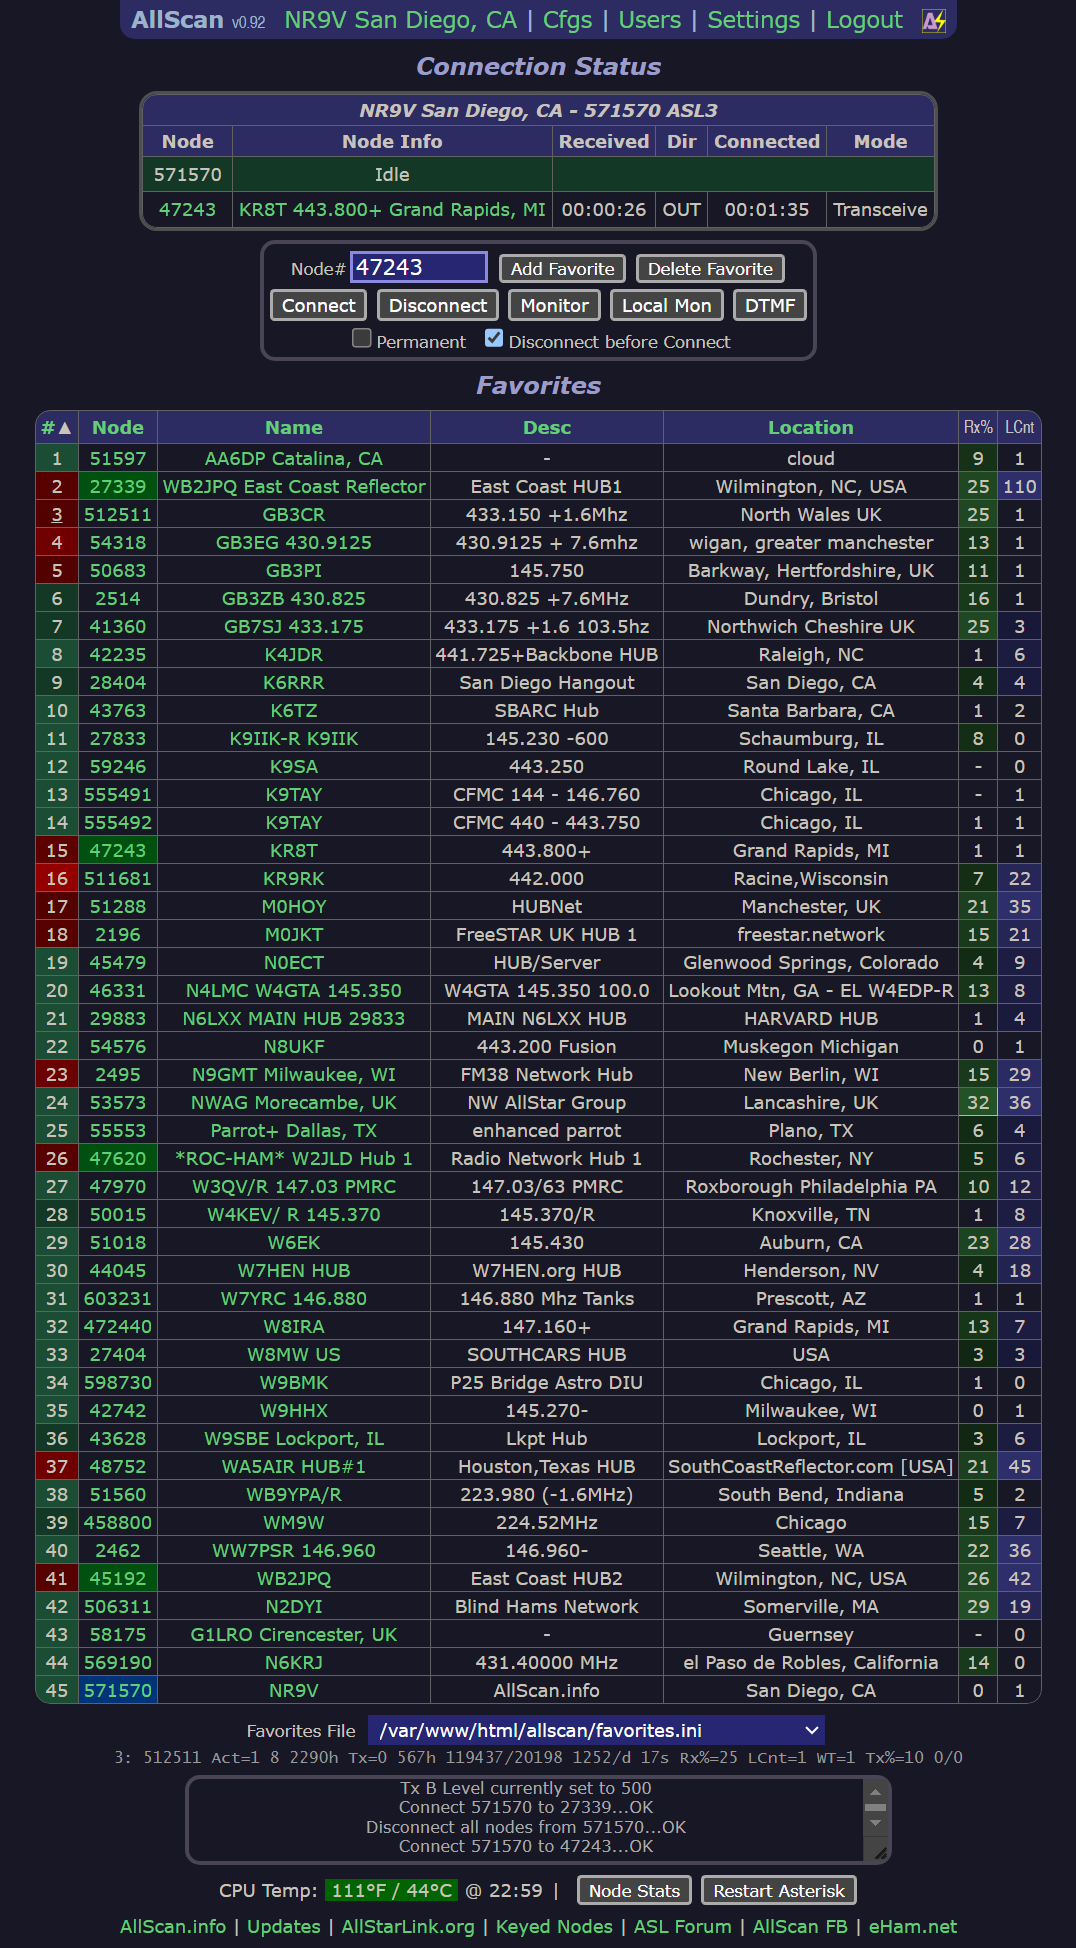
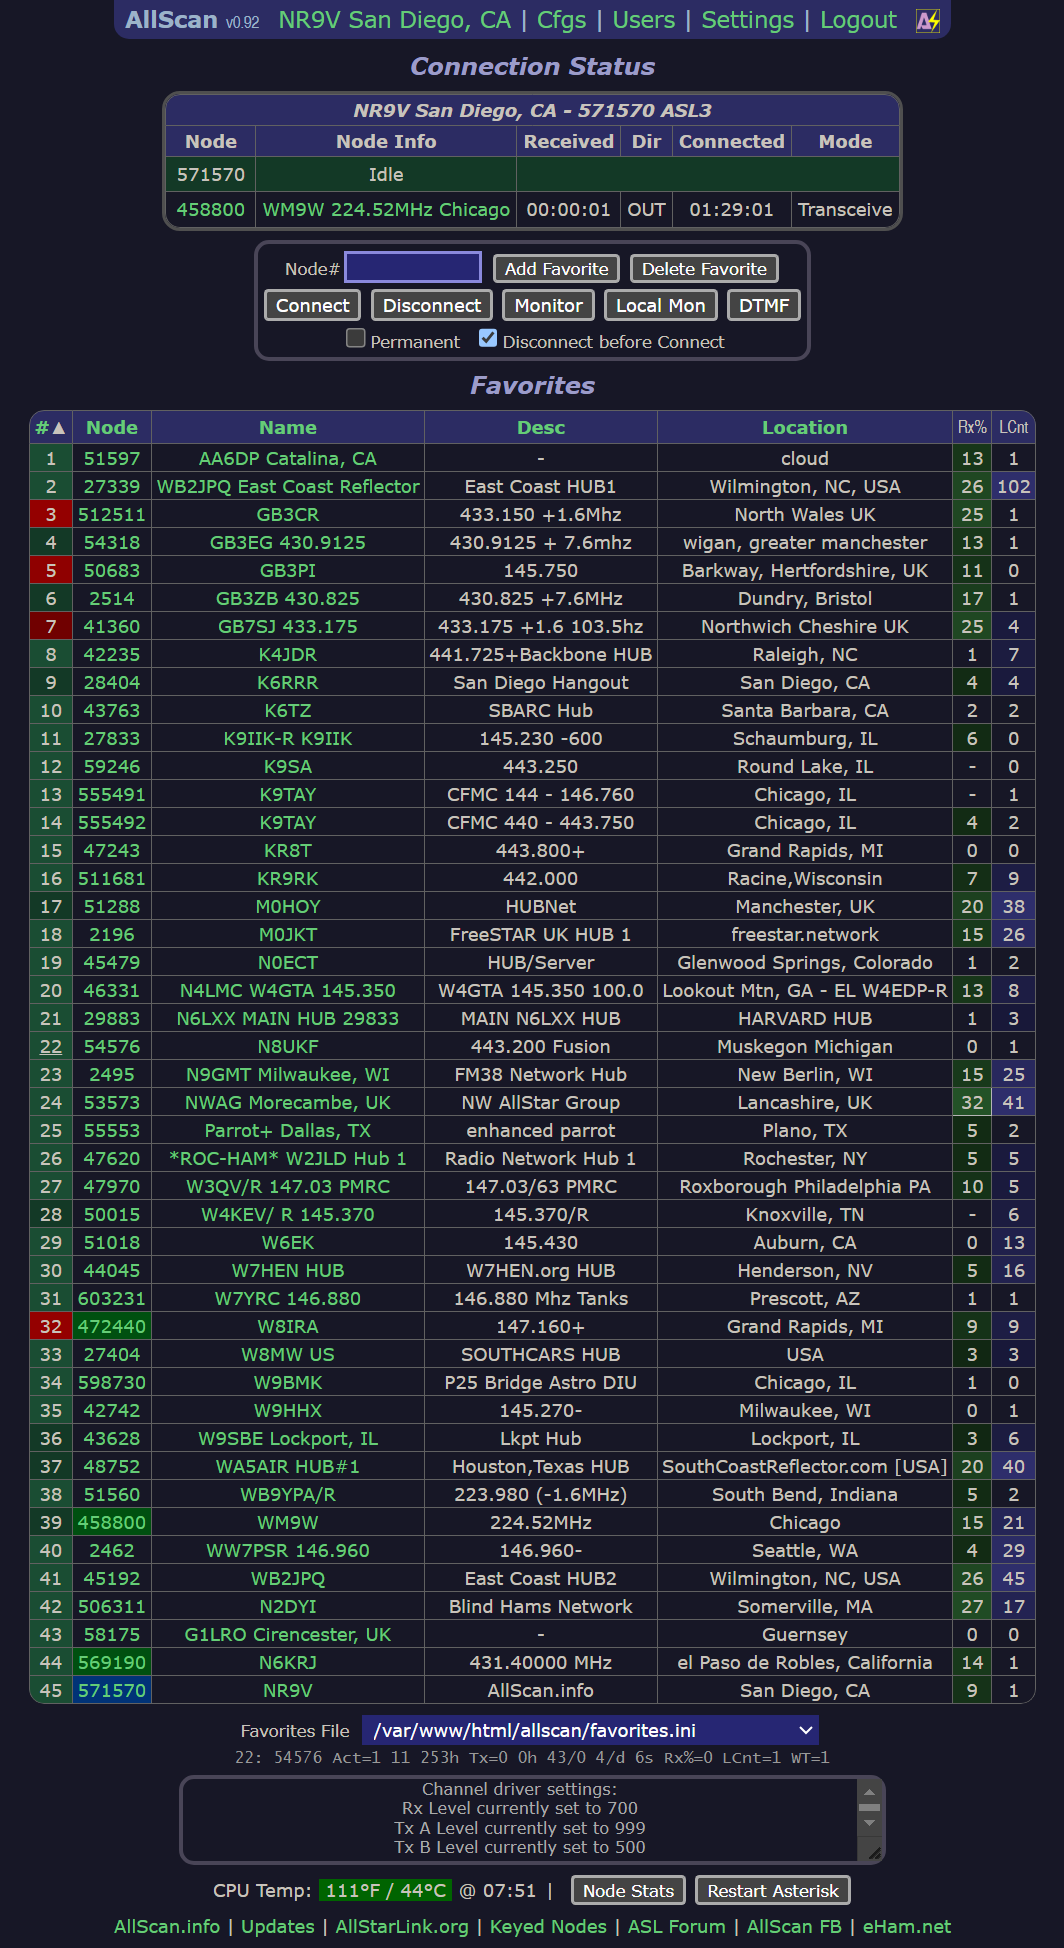
Fix bug where for non-logged-in users JavaScript functions would not work

diff --git a/include/viewUtils.php b/include/viewUtils.php
@@ -24,7 +24,8 @@ function showConnStatusTable() {
 
 function showNodeCtrlForm() {
 	global $node, $remNode, $favsFile, $asdir, $gCfg;
-	echo '<form id="nodeForm" method="post" action="/' . $asdir . '/"><fieldset>
+	if(modifyOk())
+		echo '<form id="nodeForm" method="post" action="/' . $asdir . '/"><fieldset>
 <input type=hidden id="localnode" name="localnode" value="' . $node . '">
 <input type=hidden id="conncnt" name="conncnt" value="0">
 <input type=hidden id="favsfile" name="favsfile" value="' . $favsFile .'">
@@ -44,6 +45,8 @@ function showNodeCtrlForm() {
 	for="autodisc">Disconnect before Connect</label>
 </fieldset></form>
 ';
+	else
+		echo '<input type=hidden id="localnode" name="localnode" value="' . $node . '">' . NL;
 }
 
 function showSetNodeInfoForm() {

diff --git a/index.php b/index.php
@@ -82,9 +82,7 @@ if(!isset($parms))
 $remNode = (isset($parms['node']) && validDbID($parms['node']) && strlen($parms['node']) < 9) ? $parms['node'] : '';
 
 showConnStatusTable();
-
-if(modifyOk())
-	showNodeCtrlForm();
+showNodeCtrlForm();
 
 h2('Favorites');
 // Read in favorites.ini

diff --git a/include/common.php b/include/common.php
@@ -1,7 +1,7 @@
 <?php
 // AllScan main includes & common functions
 // Author: David Gleason - AllScan.info
-$AllScanVersion = "v0.92";
+$AllScanVersion = "v0.93";
 require_once('Html.php');
 require_once('logUtils.php');
 require_once('timeUtils.php');

diff --git a/README.md b/README.md
@@ -3,13 +3,13 @@ AllStar Favorites Management &amp; Scanning Web App
 
 See [screenshot.png](https://github.com/davidgsd/AllScan/blob/main/screenshot.png) for an example of the AllScan GUI. AllScan is a free and open-source web app that provides Favorites Management features, AllStarLink Stats integration, and connection monitoring and control functions.
 * Shows your favorites in a Dashboard summary table with Keyed status, Connected Node count and other statistics.
-* Continually scans the status of each favorite using ASL's Stats API and shows which favorites are active and have recently been active.
+* Continually scans the status of each favorite using ASL's Statistics API and shows which favorites are active and have recently been active.
 * Allows favorites to be connected with a single click (optionally automatically disconnecting any currently connected nodes first).
 * Allows the Favorites Table to be sorted by Node#, Name, Description, Location, etc.
 * Favorites can be added/deleted simply by entering the node# and clicking a button.
 * Favorites files/groups can be easily created, copied, backed up, uploaded, downloaded and switched between
 
-These features finally give AllStar nodes similar memory management and scan capabilities that analog radios have had for decades. AllScan is mobile-friendly and optimized for ease of use on both small and large screens. AllScan follows the latest web development standards, with PHP, JavaScript, HTML, and CSS cleanly partitioned, runs on both ASL and HamVOIP, and is simple to install, configure, and update.
+These features give AllStar nodes similar memory management and scan capabilities that analog radios have had for decades. AllScan is mobile-friendly and optimized for ease of use on both small and large screens. AllScan follows the latest web development standards, with PHP, JavaScript, SQL, HTML, and CSS cleanly partitioned, runs on both ASL and HamVOIP, and is simple to install, configure, and update.
 
 Prior to installing AllScan it is recommended that you have a working install of Supermon or Allmon. AllScan can automatically read their config files. Currently AllScan supports favorites.ini entries that refer to connecting to nodes eg. 'cmd[] = "rpt cmd %node% ilink 3 [node#]"' but may also support other types of commands in the future.
 
@@ -50,7 +50,7 @@ The AllScan Install/Update script automatically checks system configuration deta
 Log into your node by SSH and run the following commands:
 
 	sudo apt update; sudo apt install php php-sqlite3 php-curl unzip avahi-daemon asl3-tts -y
-	cd ~; rm AllScanInstallUpdate.php 2> /dev/null
+	cd ~; rm AllScanInstallUpdate.php 2>/dev/null
 	wget 'https://raw.githubusercontent.com/davidgsd/AllScan/main/AllScanInstallUpdate.php'
 	chmod 755 AllScanInstallUpdate.php
 	sudo ./AllScanInstallUpdate.php
@@ -70,27 +70,27 @@ NOTES:
 2. Then restart the web server or restart the node
 
 # AllScan Nodes, Accessories and How-To-Guides
-If you do not yet have a node or might like to upgrade your node, see [AllScan.info](https://allscan.info/) for How-To Guides, Nodes, USB Interfaces, Accessories and more.
+If you do not yet have a node or might like to upgrade your node, see [AllScan.info](https://allscan.info/) for How-To Guides, Nodes, USB Radio Interfaces, Radio modules, Radio-less interfaces, Accessories and more.
 
 AllScan nodes, node modules, and USB interfaces provide extensive features and outstanding audio quality - see the [Products Page](https://allscan.info/products/) for details.
 
 # Configuration Files and Parameters
 Most nodes already have a number of Cfg files and to simplify the install process AllScan will try to use these rather than require redundant files/data to be created/entered. These files are as follows:
-1. **astdb.txt**: The ASL database file with the list of all nodes provisioned on the AllStarLink network. This file should already exist in ../supermon/astdb.txt or /var/log/asterisk/astdb.txt. If the file is not found it will be automatically downloaded into the allscan directory. If you have a properly configured node you should have a cron entry that downloads the latest astdb file at least once per week. AllScan shows the status of the above files and their last modification time in the status messages box (below the Favorites Table). If you see there is no recent astdb file (less than 1 week old) you should review your cron settings (which should have been configured when you installed Allmon or Supermon).
-2. **allmon.ini**: This defines your node number(s) and the Asterisk Manager credentials. It can usually be found in any of the following locations: ../supermon/allmon.ini, /etc/asterisk/allmon.ini.php, ../allmon2/allmon.ini.php, or /etc/allmon3/allmon3.ini. AllScan will search those locations in that order and use the first file found. If you see connection/stats error messages check those file locations and verify they have the correct data. If you have multiple Nodes defined in allmon.ini, AllScan will use the first Node# in the file. (A future version of AllScan may support multiple Node#s and allow these cfgs to be stored in AllScan's database.) You can also place an allmon.ini file in AllScan's web root folder, which will take precedence over other file locations.
+1. **astdb.txt**: The ASL database file with the list of all nodes provisioned on the AllStarLink network. In ASL3 this is maintained by the asl3-update-nodelist service which will be set up automatically. In ASL2/HV this file should already exist in ../supermon/astdb.txt or /var/log/asterisk/astdb.txt. If the file is not found it will be automatically downloaded into the allscan directory. AllScan shows the status of these files and their last modification times in the status messages box (below the Favorites Table).
+2. **allmon.ini**: This defines your node number(s) and the Asterisk Manager credentials. It can usually be found in any of the following locations: ../supermon/allmon.ini, /etc/asterisk/allmon.ini.php, ../allmon2/allmon.ini.php, or /etc/allmon3/allmon3.ini. AllScan will search those locations in that order and use the first file found. If you see connection/stats error messages check those file locations and verify they have the correct data. If you have multiple Nodes defined in allmon.ini, AllScan will use the first Node# in the file. (A future version of AllScan may support multiple Node#s.) You can also place an allmon.ini file in AllScan's web root folder, which will take precedence over other file locations.
 3. **global.inc**: Cfg file in the supermon directory with user settings such as your name, call sign, node title, etc. AllScan will automatically import the following variables from global.inc if found: $CALL, $LOCATION, and $TITLE2. Otherwise you will be prompted to enter them after first setting up AllScan. The Call Sign and Location parameters are shown in the AllScan Page Header, and the Node Title parameter is shown in the Connection Status Table header.
 4. **favorites.ini**: The favorites file can be found in the supermon directory or in the allscan directory. Or if you have the file somewhere else (eg. ../supermon2/) you can set that location in the 'Favorites.ini Locations' Cfgs Parameter. A sample favorites file is also included.
 
 All AllScan Cfg parameters can be viewed and set on the Cfgs page if you are logged in as an Admin user. Just click the 'Cfgs' link and all Cfgs are then shown along with an Edit form.
 
 # Troubleshooting
-For any issues including directory/file permissions issues or issues with SQLite not being available it is recommended to first always run the update script. The script will check if you have the latest version of AllScan and update your install if not, and will validate all directory and file permissions and update any out-of-date OS packages. Refer to the "Install / Update" section above, run the update script, reboot the node, and then see if the issue was resolved.
+For any issues including directory/file permissions issues or issues with SQLite not being available it is recommended to run the update script, which will check if you have the latest version of AllScan, update your install if not, and validate all directory and file permissions. Refer to the "Install / Update" section above, run the update script, reboot the node, and then see if the issue was resolved.
 
 If you have somehow corrupted your install and running the install/update script does not fix it, run "sudo rm -rf /etc/allscan /var/www/html/allscan /srv/http/allscan 2>/dev/null" to completely uninstall AllScan, and then run the installer again.
 
 A common fix for many issues is simply to reboot your node. You might be surprised how many issues end up being resolved with nothing more than a reboot.
 
-Be sure to check out the [Ham Radio Crusader YouTube channel AllScan videos](https://www.youtube.com/@HamRadioCrusader/search?query=AllScan) for more details and a walkthrough of how to install, set up and use AllScan on ASL3, HamVOIP, or DVSwitch.
+Be sure to check out the [Ham Radio Crusader YouTube channel AllScan videos](https://www.youtube.com/@HamRadioCrusader/search?query=AllScan) for more details and a walkthrough of how to install, set up and use AllScan on ASL3, HamVOIP or DVSwitch.
 
 HamVOIP users: See this [Blog Post by KJ7T](https://randomwire.substack.com/p/updating-allscan-on-the-clearnode) for detailed steps on how to enable the SQLite3 extension in php.ini.
 
@@ -110,11 +110,14 @@ To contribute to AllScan feel free to send any amount by paypal or venmo to chc_
 
 # Road Map
 As of version 0.65, AllScan implements the main features I originally planned, and works very well for the use case of personal nodes that have one or two primary users and/or a small number of occasional other users. A future version of AllScan will add enhanced support for a larger number of simultaneous web-client users (which will require ASL stats caching so that numerous web-clients would not each be making separate ASL stats requests which would significantly slow down the stats scanning functions). However this is not a common use case and is not a current priority. AllScan will also at some point more fully support nodes with more than one node number eg. allowing the local node to be selected from a select box control. Other changes planned:
-1. Enhanced Favorites management features, saving favorites in AllScan DB rather than in other folders, editing favorites text, reordering table. Enable auto update check such that AllScan will check once every few days to see if a new version is available and highlight the Update link if so
+1. Enhanced Favorites management features, saving favorites in AllScan DB rather than in other folders, editing favorites text, reordering table.
 2. Enhanced stats features, caching of stats data to AllScan DB
 3. Other features that are highly requested or that seem like a good idea
 
 # Release Notes
+**v0.93 2025-05-13**<br>
+Fix bug where for non-logged-in users JavaScript functions would not work.
+
 **v0.92 2025-05-05**<br>
 When loading main page check if a newer AllScan version is available and if so display a lighting bolt icon link next to the version number in the page header. This link then opens the AllScan github page and update instructions. Add include/version.txt file to simplify checking of version number. JS optimizations to prevent duplicate error messages eg. if node is offline.
 
